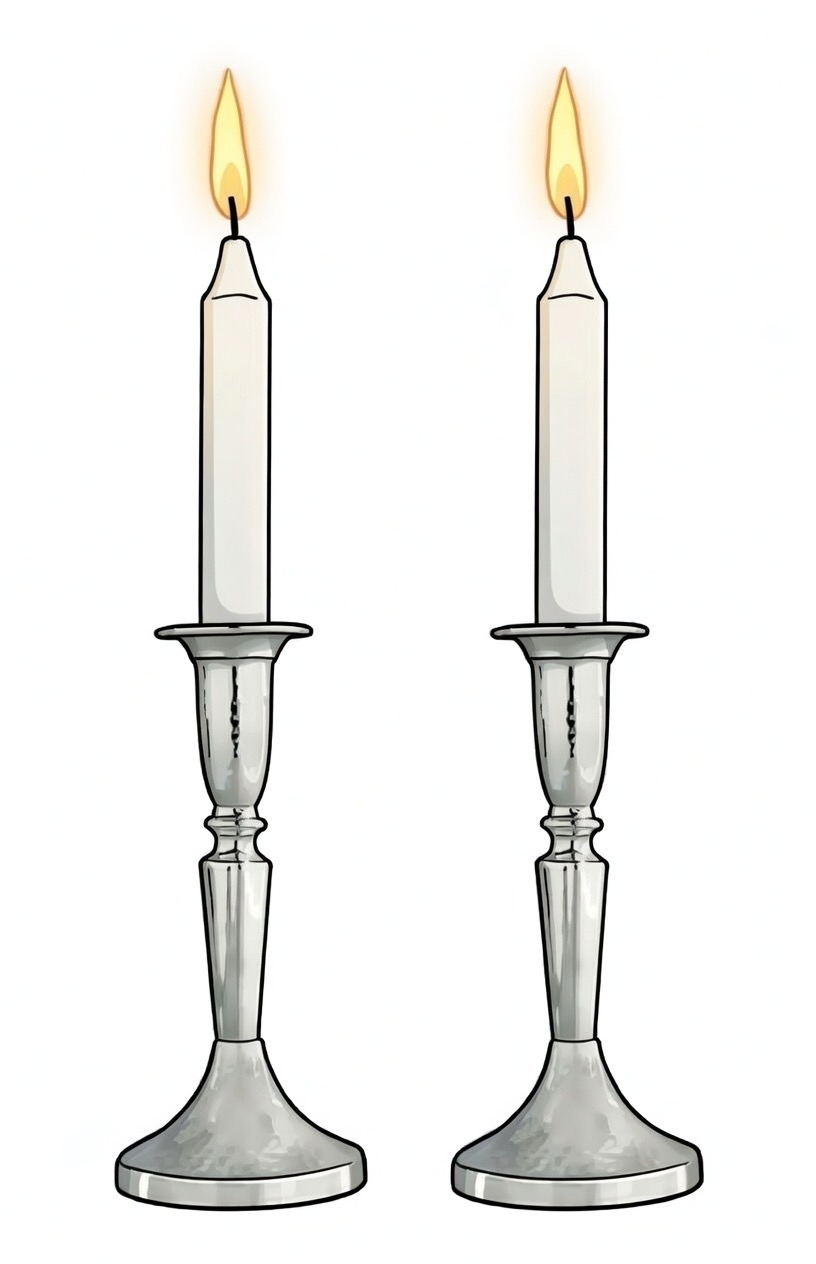
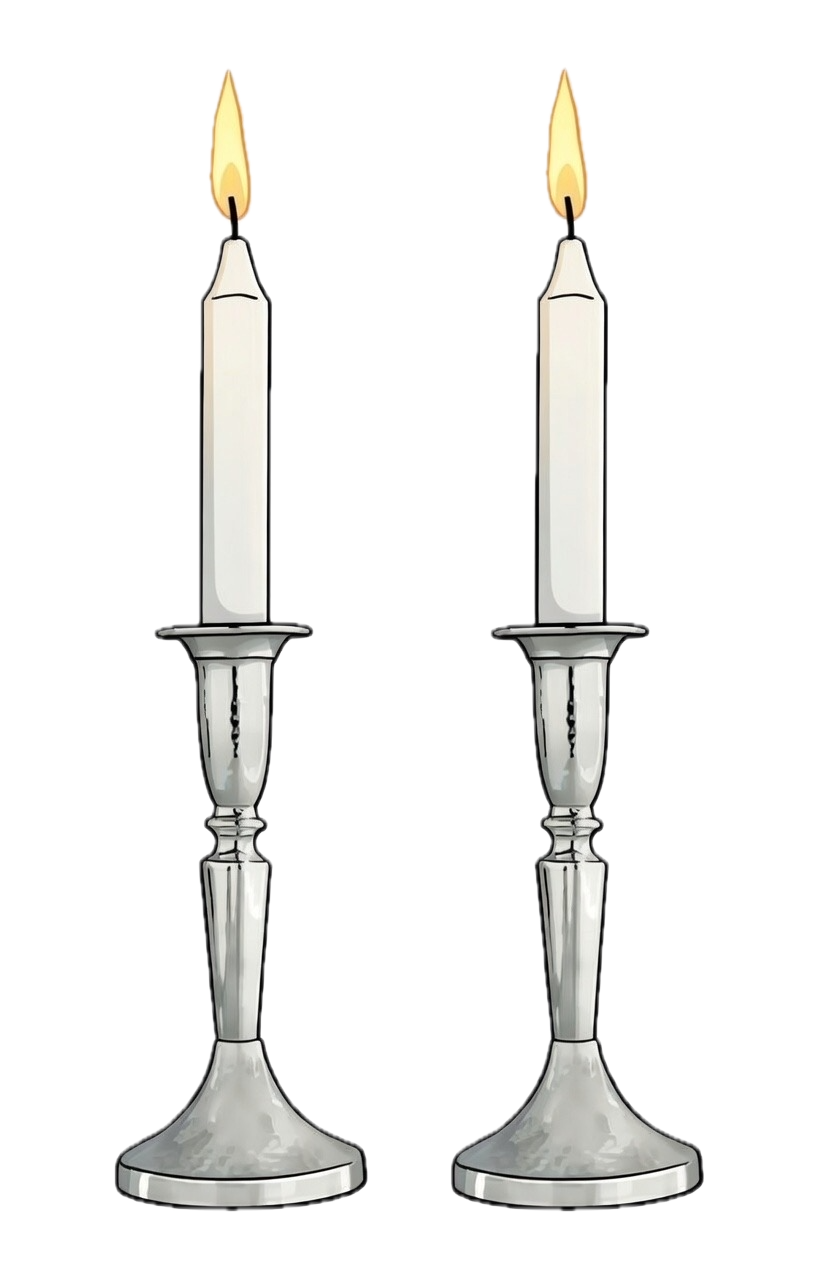
Refresh candles button image

diff --git a/index.html b/index.html
@@ -310,7 +310,7 @@
             </div>
 
             <div class="deed-card deed-card-img" data-deed="candles">
-                <img src="cadles_button.png" alt="Candles" class="deed-img">
+                <img src="cadles_button.png?v=2" alt="Candles" class="deed-img">
                 <div class="deed-counter">0</div>
             </div>
 
